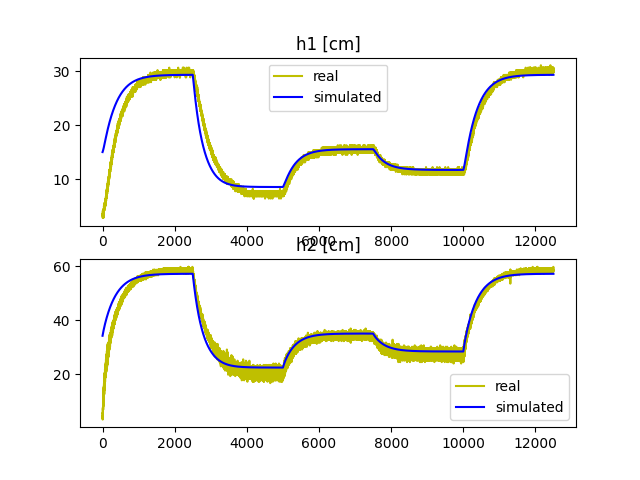
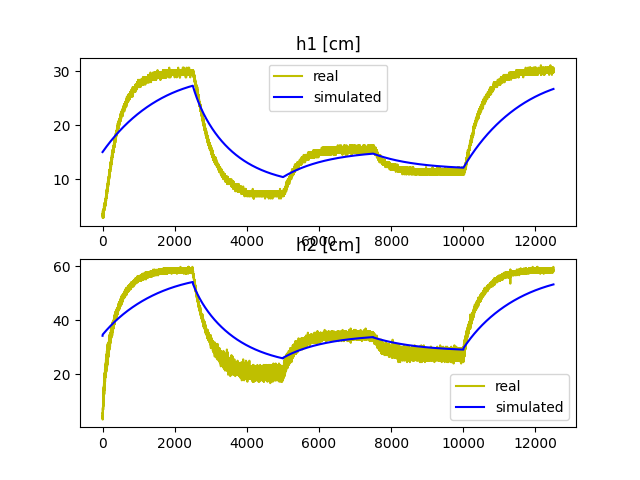
update

diff --git a/build_lpv_system.py b/build_lpv_system.py
@@ -77,28 +77,25 @@ def parameters_behavior_by_interpolation(alpha_points, h1, plot=False):
     return alpha
 
 
-def get_lpv_discrete_system_response(system_info, op_points, parameters, input):
+def get_lpv_discrete_system_response(system_info, initial_conditions, parameters, input):
 
     n_vertices = len(parameters)
     h0 = np.array([[0], [0]])
     h = np.array(h0)
-    h_real = np.array([[op_points['h2']], [op_points['h1']]])
+    h_real = np.array([[initial_conditions['h2']], [initial_conditions['h1']]])
+    h1_real = initial_conditions['h1']
     poly_alpha = [np.poly1d(parameter) for parameter in parameters]
-    last_input = input[0]
 
     for i in range(1, len(input)):
-        h0_real = np.array([[h[0][-1] + op_points['h2']], [h[1][-1] + op_points['h1']]])
-        h_real = np.append(h_real, h0_real, axis=1)
-        h1_real = h0_real[1][0]
-        h0 = np.array([[h[0][-1]], [h[1][-1]]])
 
-        if last_input != input[i-1]:
+        '''if last_input != input[i-1]:
             h2_real = h[0][-1] + op_points['h2']
             op_points = operation_points({'u': input[i - 1]})
             h0 = np.array([[h2_real - op_points['h2']], [h1_real - op_points['h1']]])
-            last_input = input[i - 1]
+            last_input = input[i - 1]'''
 
-        uk = 0
+        op_points = operation_points({'h1': h1_real})
+        uk = input[i - 1] - op_points['u']
         alpha = np.array([p(h1_real) for p in poly_alpha])
         A = system_info['A1'] * alpha[0]
         B = system_info['B1'] * alpha[0]
@@ -109,6 +106,12 @@ def get_lpv_discrete_system_response(system_info, op_points, parameters, input):
 
         h_aux = np.dot(A, h0) + np.dot(B, uk)
         h = np.append(h, h_aux, axis=1)
+
+        h0_real = np.array([[h[0][-1] + op_points['h2']], [h[1][-1] + op_points['h1']]])
+        h_real = np.append(h_real, h0_real, axis=1)
+        h1_real = h0_real[1][0]
+        # h0 = np.array([[h[0][-1]], [h[1][-1]]])
+        h0 = np.array([[0], [0]])
 
     return h_real
 

diff --git a/system_variation.py b/system_variation.py
@@ -82,7 +82,7 @@ def get_remaining_elements_values(remaining_elements, system_info, nv, h1_range,
 
         solver = pywraplp.Solver.CreateSolver('GLOP')
 
-        a = [solver.NumVar(-float(max(system_info[element])) * 2, float(max(system_info[element])) * 2, f'a{j+1}')
+        a = [solver.NumVar(-float(max(system_info[element])) * 100, float(max(system_info[element])) * 100, f'a{j+1}')
              for j in range(nv)]
 
         # s = [solver.NumVar(0, solver.infinity(), f's{i}') for i in range(len(h1_range))]
@@ -112,8 +112,8 @@ def get_lpv_model_from_op_points_range(h1, h2, u, period, h1_min, h1_max, n_poin
     h1_range = np.linspace(h1_min, h1_max, n_points)
     system_info = linearization(h1_range, period)
 
-    nv = 5
-    gains = {'A21': 4, 'A22': 4, 'B21': 4, 'B11': 4}
+    nv = 3
+    gains = {'A21': 4, 'A22': 4}
     elements = list(gains.keys())
     parameters = get_parameters_points(system_info, gains, h1_range, nv, elements)
 

diff --git a/validation_lpv_system.py b/validation_lpv_system.py
@@ -82,7 +82,7 @@ def execute_validation(op_point, n_points, h1_min, h1_max, period, get_response,
     print(parameters)
 
     simulation_time = 12500
-    simulation_step = period
+    simulation_step = 1
 
     iterations = int(simulation_time / simulation_step)
 
@@ -143,11 +143,11 @@ def execute_simple_validation(op_point, n_points, h1_min, h1_max, period, input_
 
 if __name__ == '__main__':
 
-    # get_response = get_lpv_discrete_system_response
-    get_response = get_lpv_discrete_system_response_full_behavior
-    # linearization = get_system_linear_models
-    linearization = get_system_linear_models_full_behavior
-    period = 1
+    get_response = get_lpv_discrete_system_response
+    # get_response = get_lpv_discrete_system_response_full_behavior
+    linearization = get_system_linear_models
+    # linearization = get_system_linear_models_full_behavior
+    period = 5.62
     h1_min = 7
     h1_max = 37
     n_points = 100
